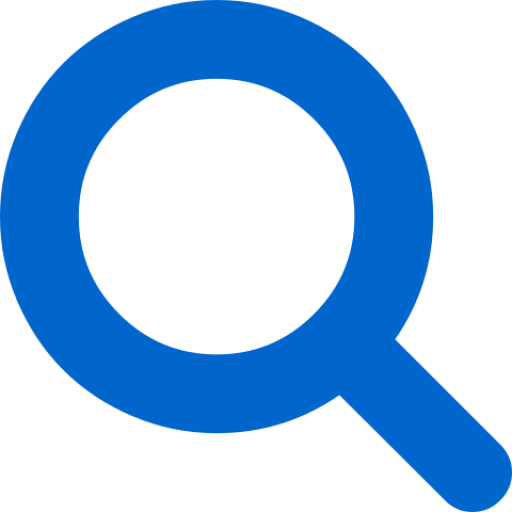
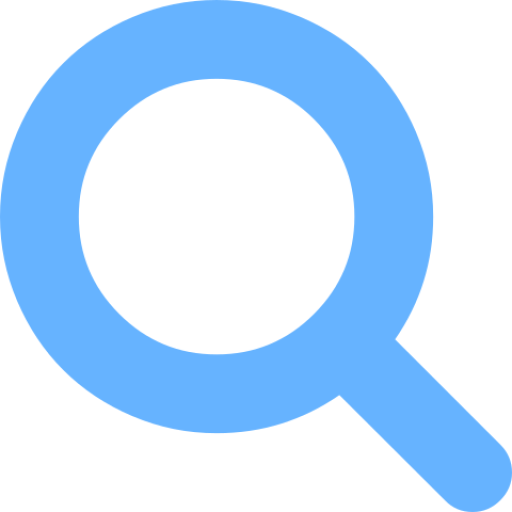
modif

diff --git a/style.css b/style.css
@@ -25,6 +25,7 @@ nav p {
   float: left;
   padding: 0 20px;
   font-weight: 700;
+  background-color: #0060C5;
 }
 nav ul {
   float: left;
@@ -216,10 +217,10 @@ span.logo {}
   width: 200px;
   font-family: 'Montserrat', sans-serif;
   color: white;
-  background-color: rgba(117, 190, 218, 0.0);
+  background-color: #66b3ff;
   font-size: 14px;
   border-radius: 6px 0 0 6px;
-  border: 2px solid white;
+  border: 2px solid #66b3ff;
 }
 .button-recherche-2 {
   height: 34px;
@@ -258,6 +259,9 @@ span.logo {}
   -webkit-box-pack: center;
   -ms-flex-pack: center;
   justify-content: center;
+  width: 550px;
+  margin: 0 auto;
+  box-shadow: 0px 2px 4px -1px rgba(0, 0, 0, 0.2), 0px 4px 5px 0px rgba(0, 0, 0, 0.14), 0px 1px 10px 0px rgba(0, 0, 0, 0.12);
 }
 .align-2 {
   display: -webkit-box;
@@ -269,9 +273,10 @@ span.logo {}
   -webkit-box-pack: center;
   -ms-flex-pack: center;
   justify-content: center;
-  padding: 18px 0 18px 0;
+  margin: 18px 0;
   position: absolute;
   right: 20px;
+  box-shadow: 0px 2px 4px -1px rgba(0, 0, 0, 0.2), 0px 4px 5px 0px rgba(0, 0, 0, 0.14), 0px 1px 10px 0px rgba(0, 0, 0, 0.12);
 }
 .align-23 {
   display: -webkit-box;
@@ -282,7 +287,8 @@ span.logo {}
   align-items: center;
   -webkit-box-pack: center;
   -ms-flex-pack: center;
-  padding: 18px 0 18px 0;
+  margin: 18px 0;
+  box-shadow: 0px 2px 4px -1px rgba(0, 0, 0, 0.2), 0px 4px 5px 0px rgba(0, 0, 0, 0.14), 0px 1px 10px 0px rgba(0, 0, 0, 0.12);
 }
 .menu-tel {
   background-color: rgba(0, 102, 204, 0.9);
@@ -352,6 +358,9 @@ span.logo {}
     width: 280px;
     font-size: 13px;
     padding: 10px;
+  }
+  .align{
+    width: auto;
   }
   .header-content p {
     font-size: 1rem;
@@ -599,7 +608,7 @@ span.logo {}
   padding-top: 20px;
 }
 .footer-distributed h3 span {
-  color: black;
+  color: #0066cc;
 }
 /* Footer links */
 

diff --git a/includes/modules/footer.php b/includes/modules/footer.php
@@ -2,16 +2,12 @@
 
       <div class="footer-left">
 
-        <h3>Clic&Book</h3>
+        <h3>Clic<span>&</span>Book.fr</h3>
 
         <p class="footer-links">
-          <a class="js-scrollTo" href="#header-overlay">Accueil</a>
+          <a href="index.php">Accueil</a>
           ·
-          <a class="js-scrollTo" href="#section-vehicule">Livres</a>
-          ·
-          <a class="js-scrollTo" href="#section-contact">Articles</a>
-          ·
-          <a class="js-scrollTo" href="#section-contact">Contact</a>
+          <a class="js-scrollTo" href="div-produit-aperçu.php">Livres</a>
         </p>
 
         <p class="footer-company-name">Clic & Book &copy; 2019</p>

diff --git a/includes/modules/header.php b/includes/modules/header.php
@@ -133,7 +133,7 @@ $('.simple').hover(function(){
  
 jQuery(document).ready(function(){
 
-$('.test-loader-2').show(0).delay(300).fadeOut(200);
+$('.test-loader-2').fadeOut(500);
 });
 </script>
 
@@ -165,7 +165,7 @@ $('.test-loader-2').show(0).delay(300).fadeOut(200);
 
 <div class="menu-ordi">
 
-  <p class="titre-site">Clic<span class="logo">&</span>Book.fr</p>  
+  <a href="index.php"><p class="titre-site">Clic<span class="logo">&</span>Book.fr</p></a>  
     <div class="balle"><i class="fa fa-bars fa-2x" onclick="menutel()"></i></div>
   <div class="menu-sans-titre">
     <ul>

diff --git a/div-produit-recherche.php b/div-produit-recherche.php
@@ -78,7 +78,7 @@
 	</div>
 	</div>';
 		echo '<div class="conteneur-liste-détaillée"><div class="soulignement"></div>
-	<h2 class="nom-lycée yy">Contenu détaillé de la liste :</h2>';
+	<h2 class="nom-lycée yy">Contenu détaillé de cette liste :</h2>';
 
 		$ISBNs = [];
 			
